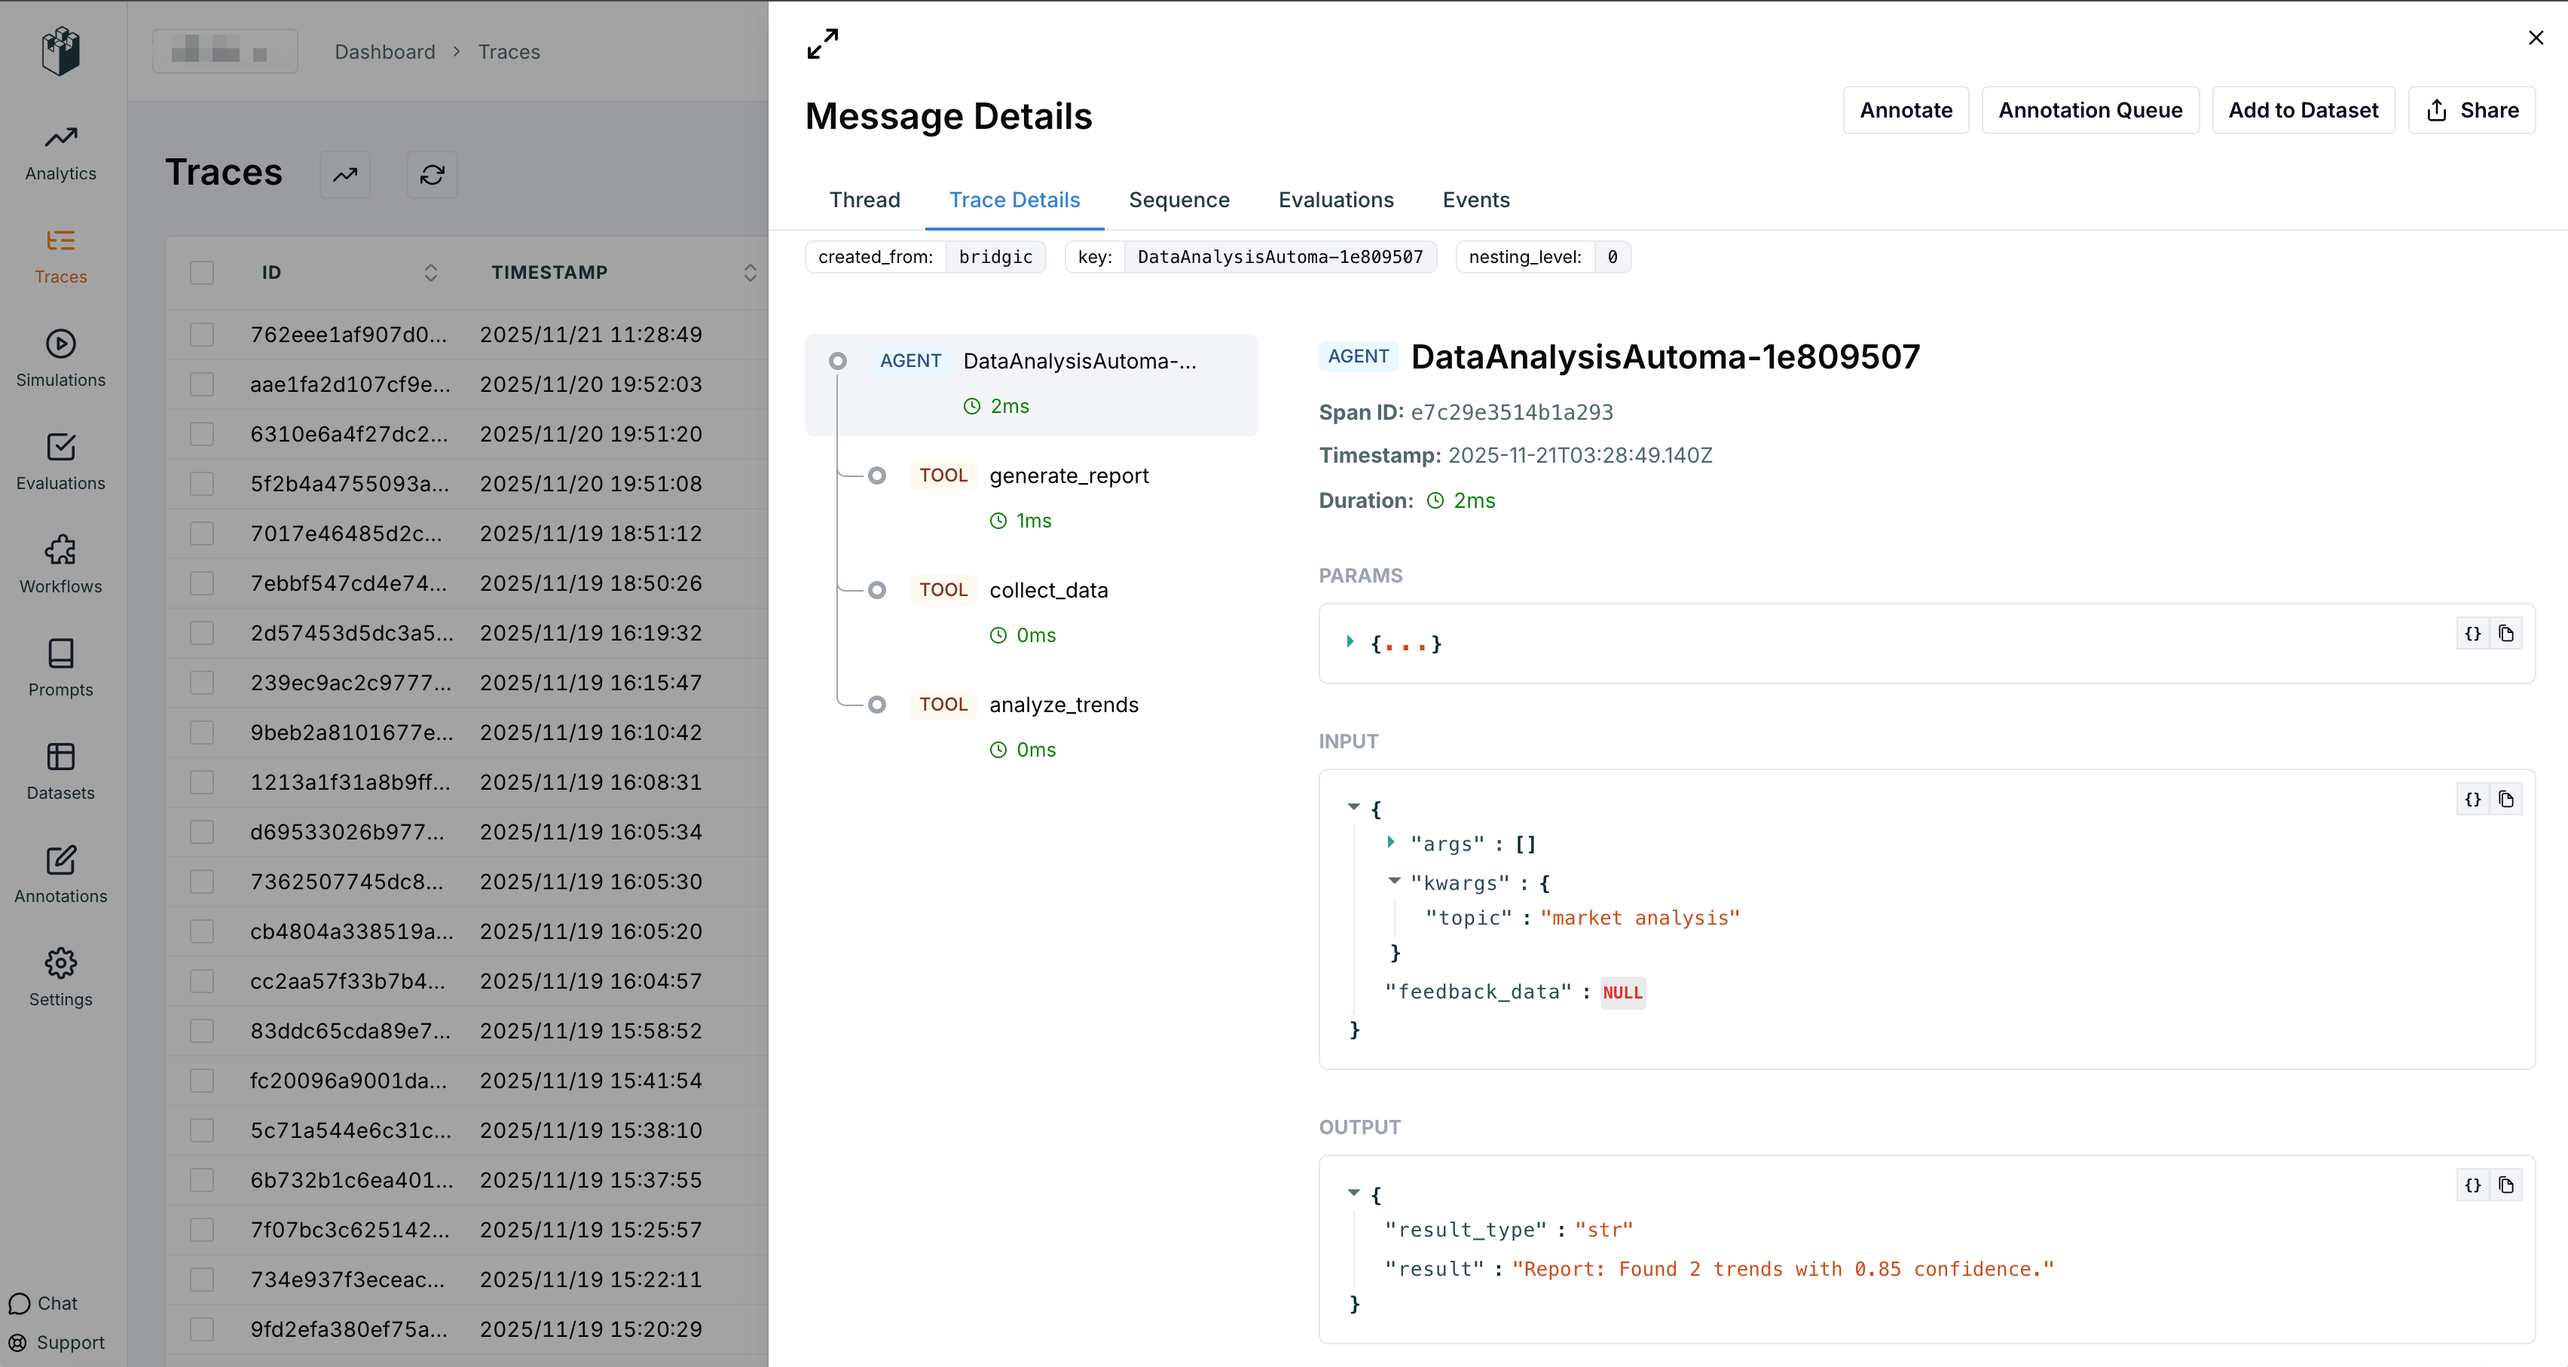
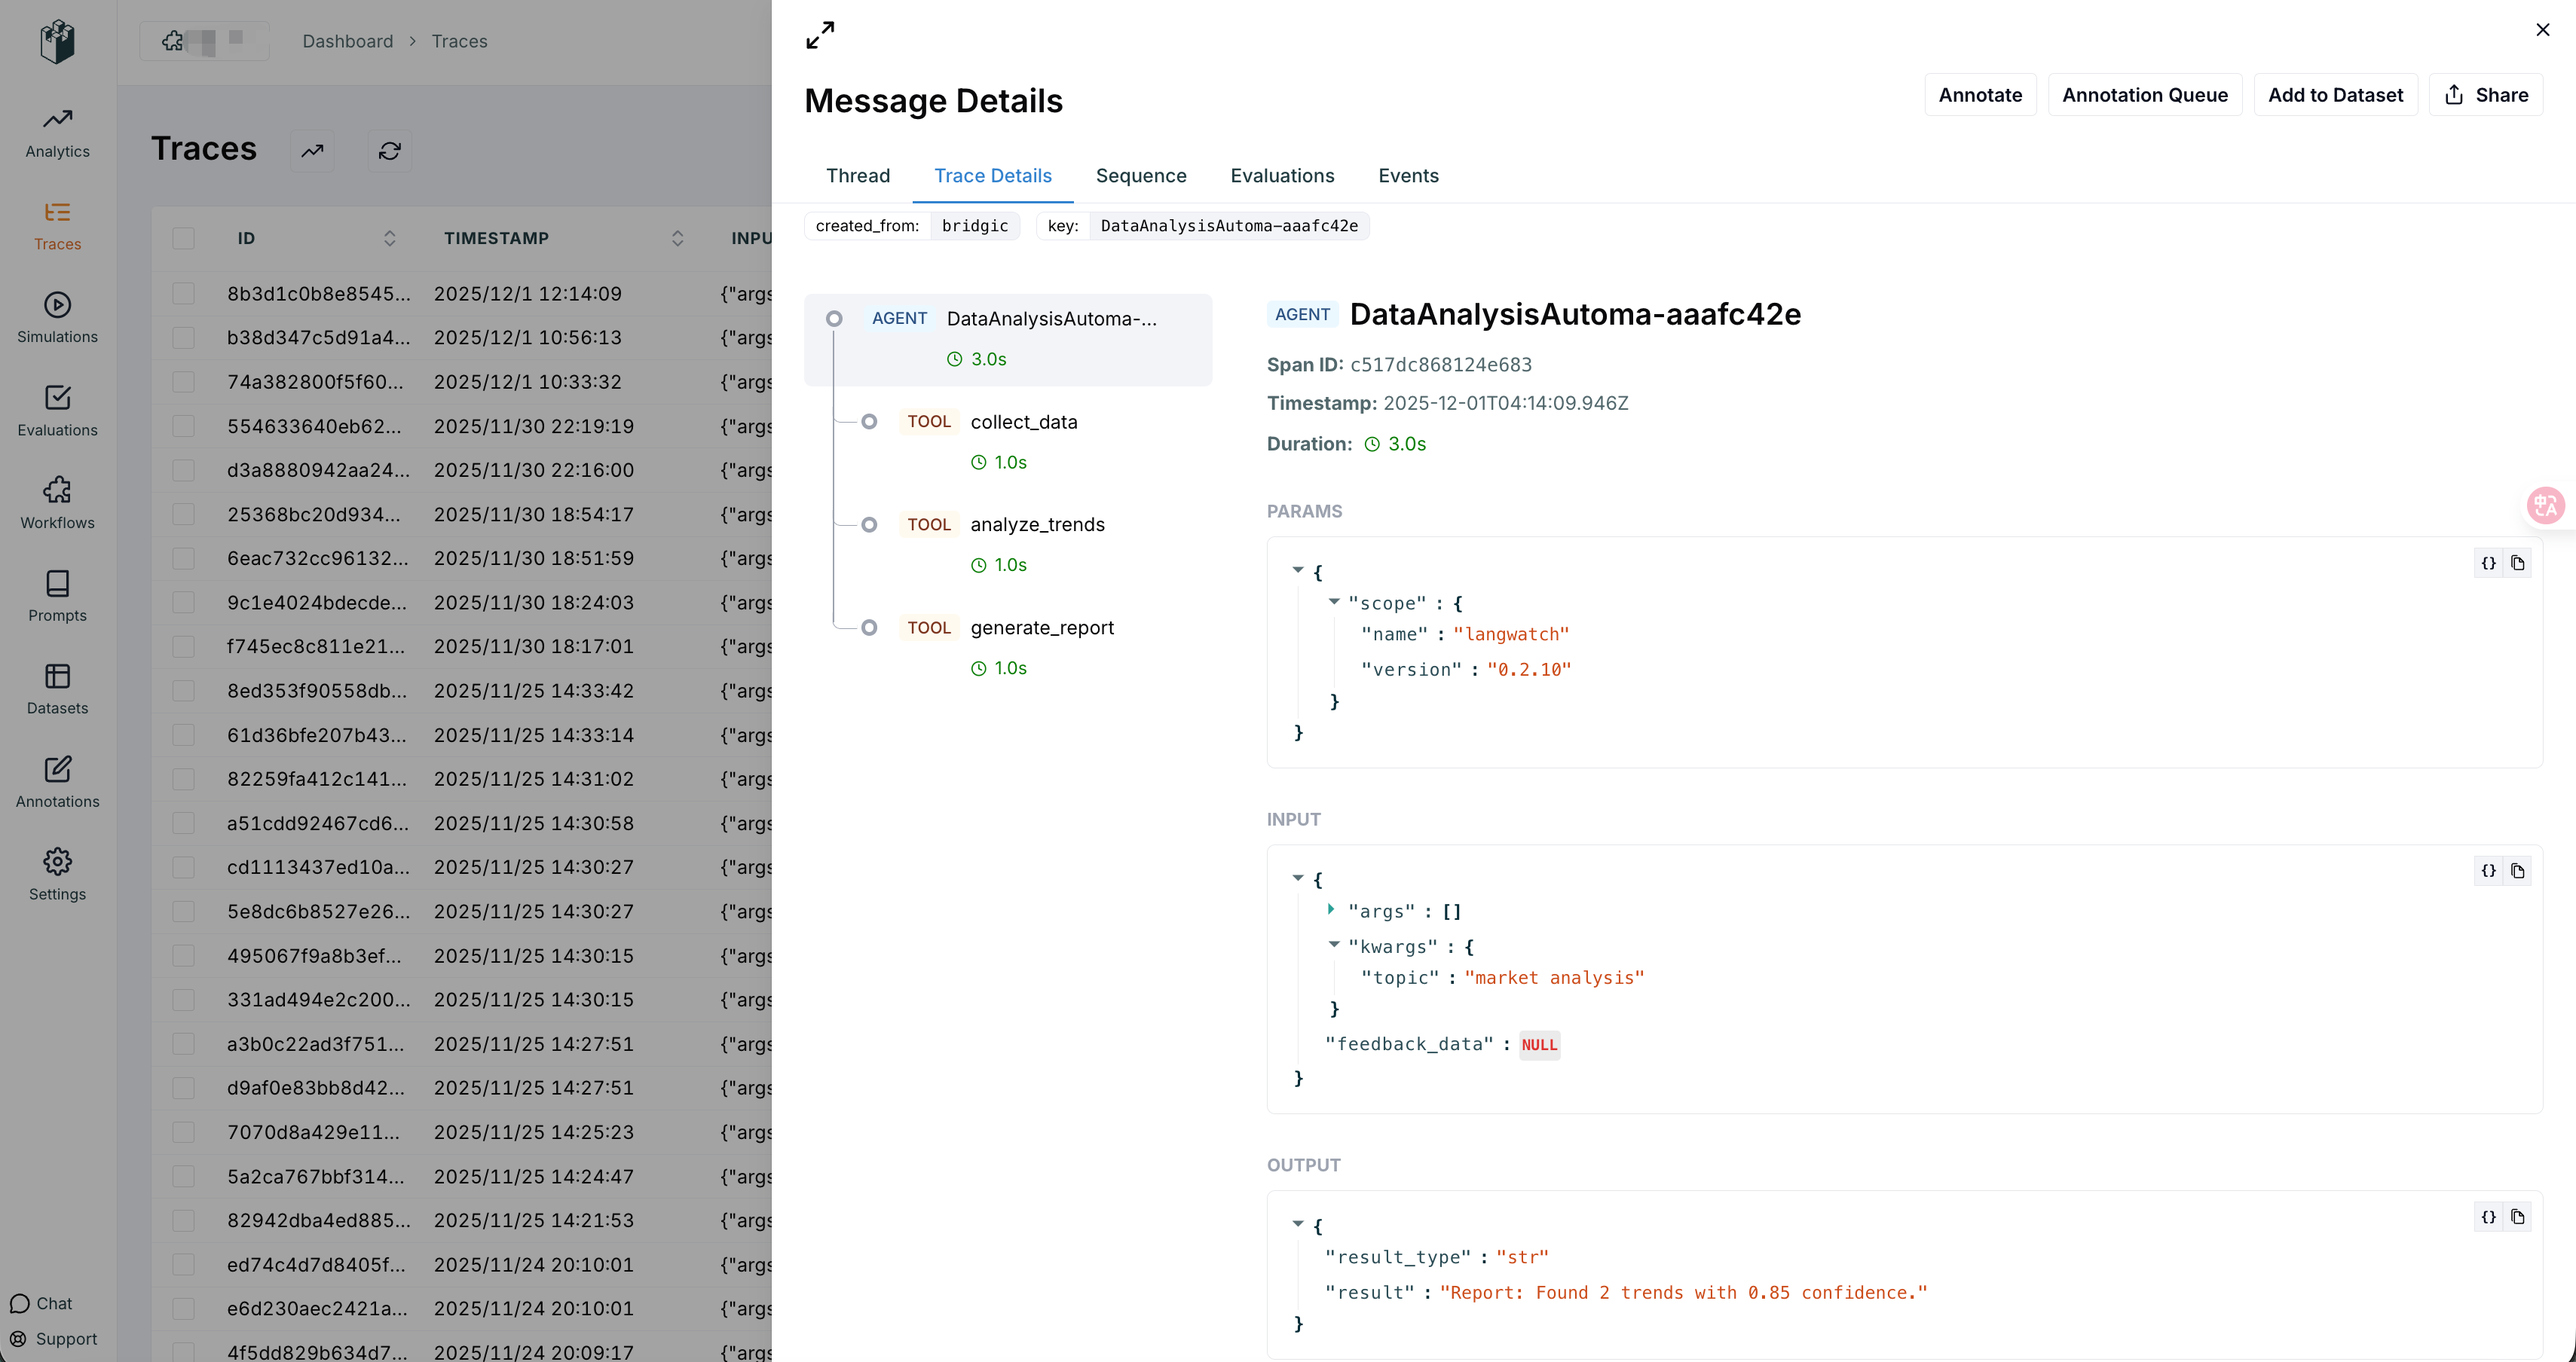
update documentation for LangWatch and Opik integrations #126

diff --git a/docs/docs/tutorials/items/observability/opik_integration.md b/docs/docs/tutorials/items/observability/opik_integration.md
@@ -108,6 +108,7 @@ class DataAnalysisAutoma(GraphAutoma):
     async def collect_data(self, topic: str) -> dict:
         """Collect data for the given topic."""
         # Simulate data collection
+        await asyncio.sleep(1)
         return {
             "topic": topic,
             "data_points": ["point1", "point2", "point3"],
@@ -118,6 +119,7 @@ class DataAnalysisAutoma(GraphAutoma):
     async def analyze_trends(self, data: dict) -> dict:
         """Analyze trends in the collected data."""
         # Simulate trend analysis
+        await asyncio.sleep(1)
         return {
             "trends": ["trend1", "trend2"],
             "confidence": 0.85,
@@ -127,6 +129,7 @@ class DataAnalysisAutoma(GraphAutoma):
     @worker(dependencies=["analyze_trends"], is_output=True)
     async def generate_report(self, analysis: dict) -> str:
         """Generate a final report."""
+        await asyncio.sleep(1)
         return f"Report: Found {len(analysis['trends'])} trends with {analysis['confidence']} confidence."
 
 async def automa_arun():
@@ -155,6 +158,7 @@ class DataAnalysisAutoma(GraphAutoma):
     async def collect_data(self, topic: str) -> dict:
         """Collect data for the given topic."""
         # Simulate data collection
+        await asyncio.sleep(1)
         return {
             "topic": topic,
             "data_points": ["point1", "point2", "point3"],
@@ -165,6 +169,7 @@ class DataAnalysisAutoma(GraphAutoma):
     async def analyze_trends(self, data: dict) -> dict:
         """Analyze trends in the collected data."""
         # Simulate trend analysis
+        await asyncio.sleep(1)
         return {
             "trends": ["trend1", "trend2"],
             "confidence": 0.85,
@@ -174,6 +179,7 @@ class DataAnalysisAutoma(GraphAutoma):
     @worker(dependencies=["analyze_trends"], is_output=True)
     async def generate_report(self, analysis: dict) -> str:
         """Generate a final report."""
+        await asyncio.sleep(1)
         return f"Report: Found {len(analysis['trends'])} trends with {analysis['confidence']} confidence."
 
 async def automa_arun():

diff --git a/docs/docs/tutorials/items/observability/lang_watch_integration.md b/docs/docs/tutorials/items/observability/lang_watch_integration.md
@@ -89,6 +89,7 @@ class DataAnalysisAutoma(GraphAutoma):
     async def collect_data(self, topic: str) -> dict:
         """Collect data for the given topic."""
         # Simulate data collection
+        await asyncio.sleep(1)
         return {
             "topic": topic,
             "data_points": ["point1", "point2", "point3"],
@@ -99,6 +100,7 @@ class DataAnalysisAutoma(GraphAutoma):
     async def analyze_trends(self, data: dict) -> dict:
         """Analyze trends in the collected data."""
         # Simulate trend analysis
+        await asyncio.sleep(1)
         return {
             "trends": ["trend1", "trend2"],
             "confidence": 0.85,
@@ -108,6 +110,7 @@ class DataAnalysisAutoma(GraphAutoma):
     @worker(dependencies=["analyze_trends"], is_output=True)
     async def generate_report(self, analysis: dict) -> str:
         """Generate a final report."""
+        await asyncio.sleep(1)
         return f"Report: Found {len(analysis['trends'])} trends with {analysis['confidence']} confidence."
 
 async def automa_arun():
@@ -143,6 +146,7 @@ class DataAnalysisAutoma(GraphAutoma):
     async def collect_data(self, topic: str) -> dict:
         """Collect data for the given topic."""
         # Simulate data collection
+        await asyncio.sleep(1)
         return {
             "topic": topic,
             "data_points": ["point1", "point2", "point3"],
@@ -153,6 +157,7 @@ class DataAnalysisAutoma(GraphAutoma):
     async def analyze_trends(self, data: dict) -> dict:
         """Analyze trends in the collected data."""
         # Simulate trend analysis
+        await asyncio.sleep(1)
         return {
             "trends": ["trend1", "trend2"],
             "confidence": 0.85,
@@ -162,6 +167,7 @@ class DataAnalysisAutoma(GraphAutoma):
     @worker(dependencies=["analyze_trends"], is_output=True)
     async def generate_report(self, analysis: dict) -> str:
         """Generate a final report."""
+        await asyncio.sleep(1)
         return f"Report: Found {len(analysis['trends'])} trends with {analysis['confidence']} confidence."
 
 async def automa_arun():

diff --git a/bridgic-integration/traces/bridgic-traces-langwatch/README.md b/bridgic-integration/traces/bridgic-traces-langwatch/README.md
@@ -90,6 +90,7 @@ class DataAnalysisAutoma(GraphAutoma):
     async def collect_data(self, topic: str) -> dict:
         """Collect data for the given topic."""
         # Simulate data collection
+        await asyncio.sleep(1)
         return {
             "topic": topic,
             "data_points": ["point1", "point2", "point3"],
@@ -100,6 +101,7 @@ class DataAnalysisAutoma(GraphAutoma):
     async def analyze_trends(self, data: dict) -> dict:
         """Analyze trends in the collected data."""
         # Simulate trend analysis
+        await asyncio.sleep(1)
         return {
             "trends": ["trend1", "trend2"],
             "confidence": 0.85,
@@ -109,6 +111,7 @@ class DataAnalysisAutoma(GraphAutoma):
     @worker(dependencies=["analyze_trends"], is_output=True)
     async def generate_report(self, analysis: dict) -> str:
         """Generate a final report."""
+        await asyncio.sleep(1)
         return f"Report: Found {len(analysis['trends'])} trends with {analysis['confidence']} confidence."
 
 async def main():
